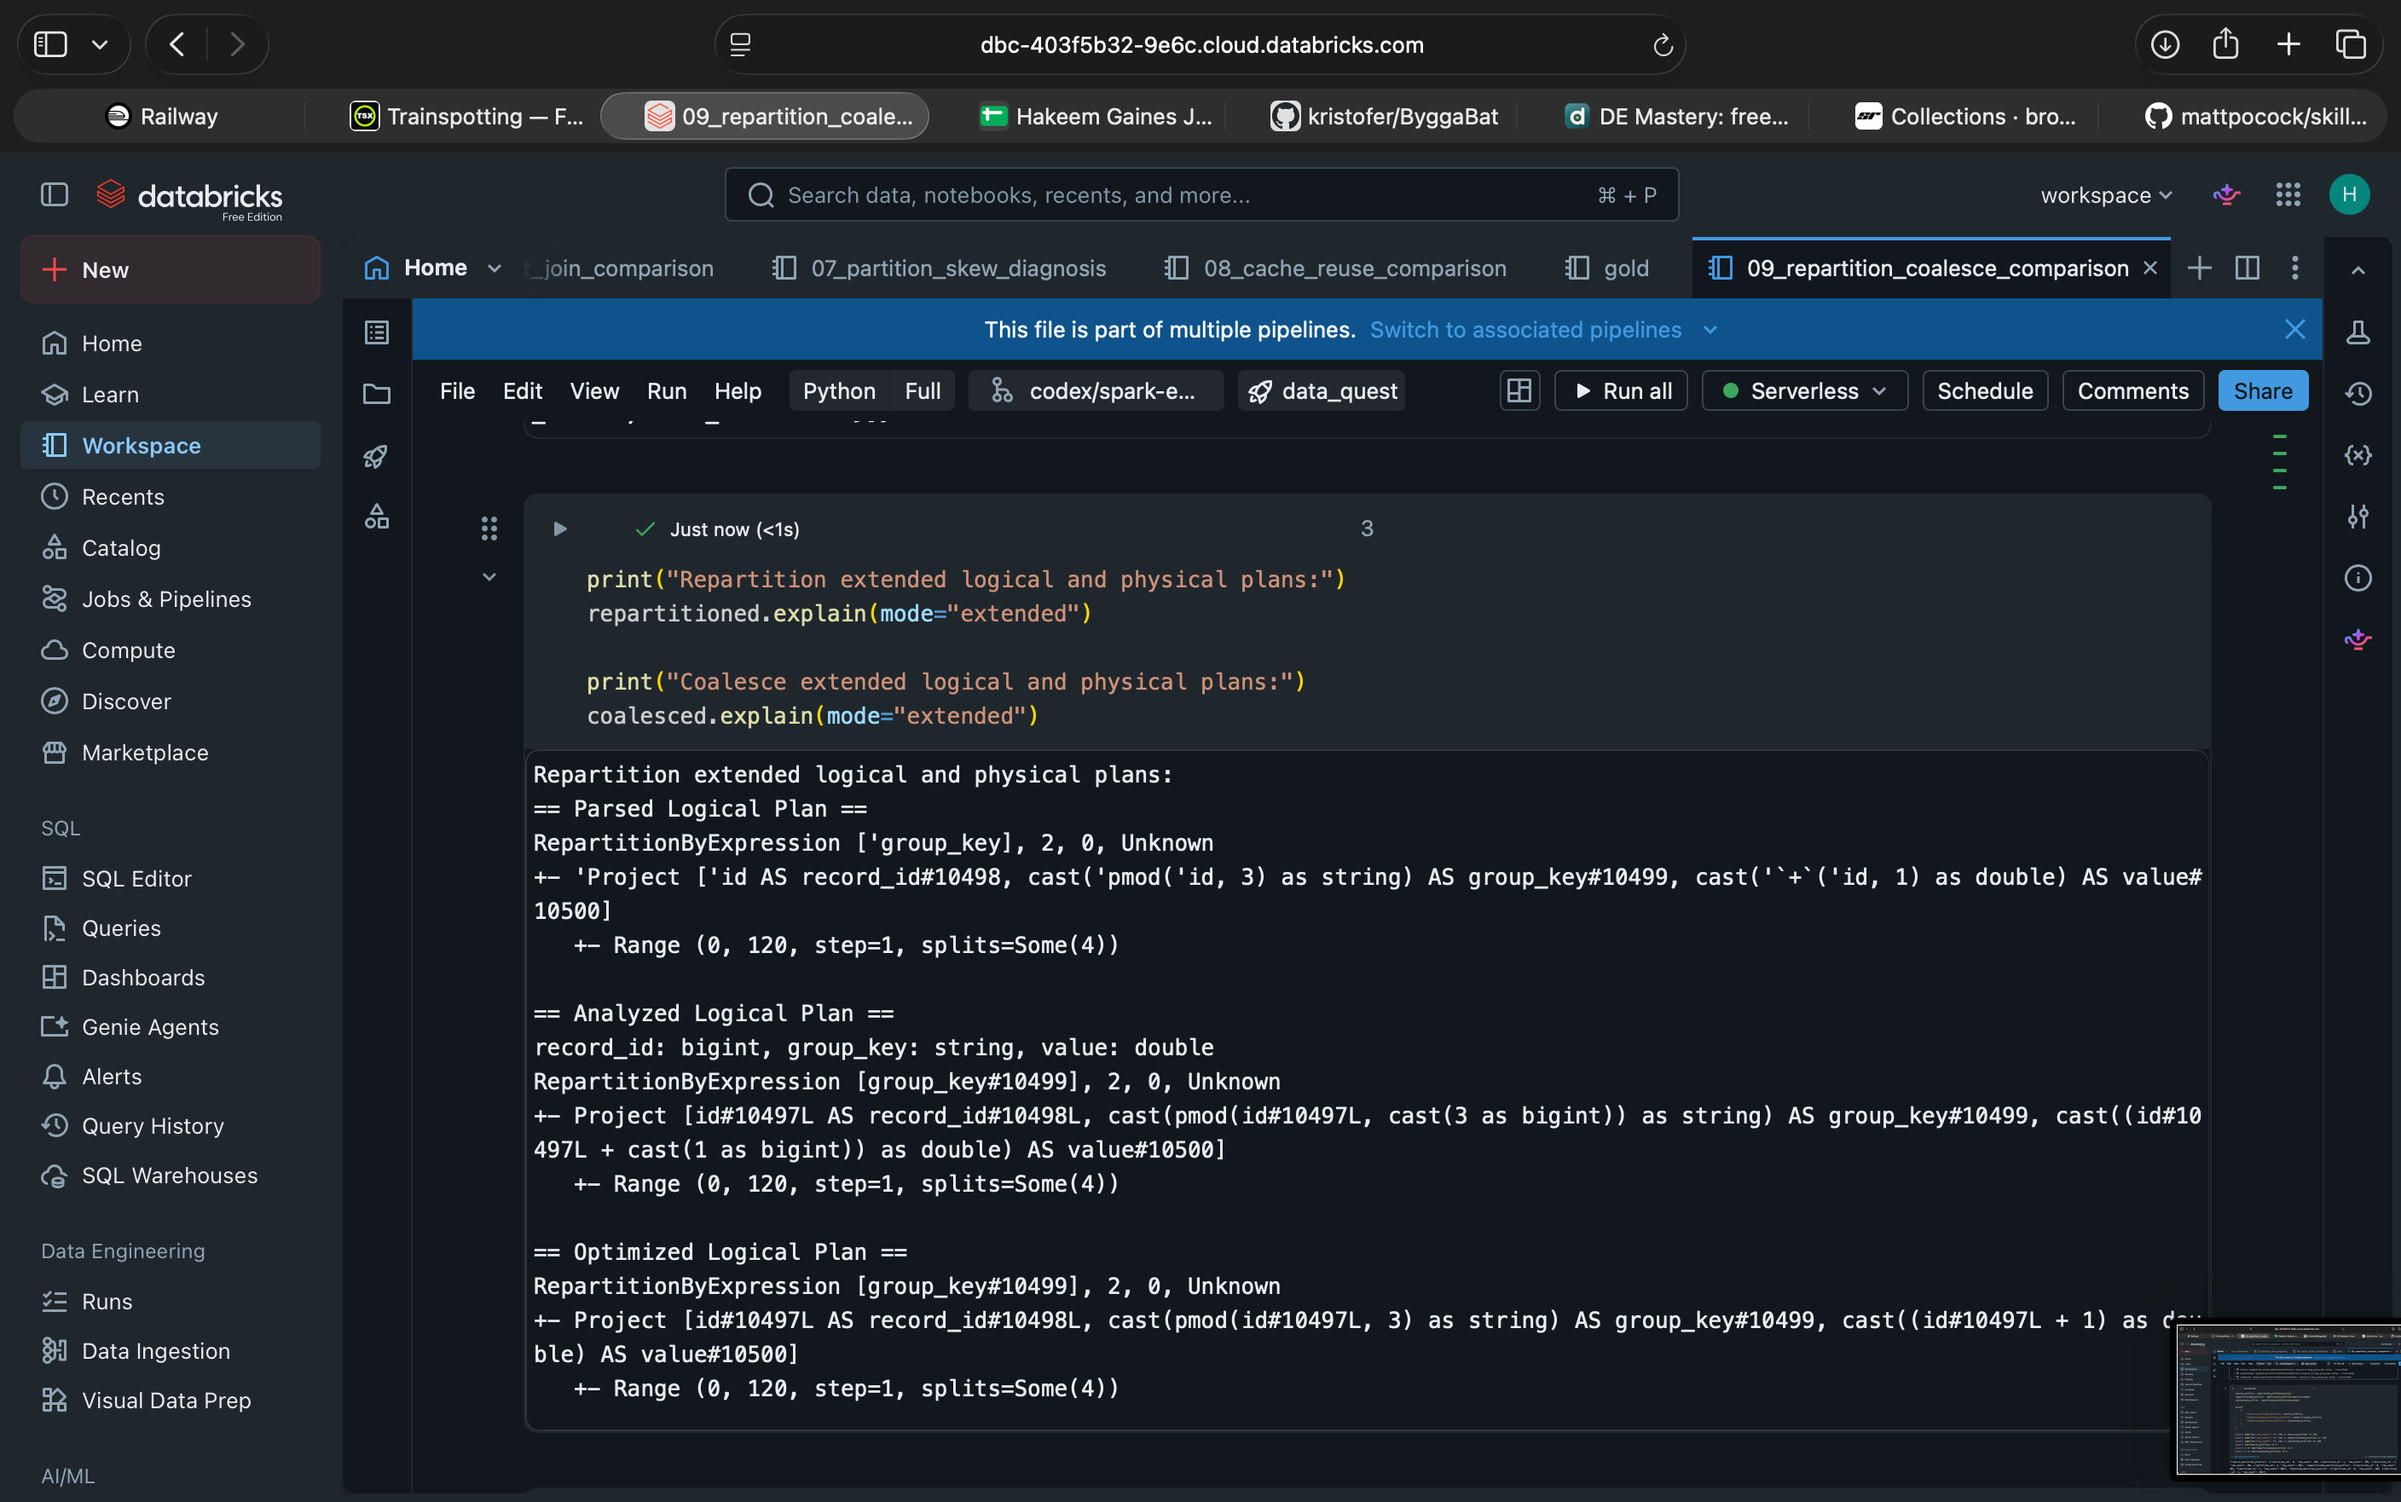
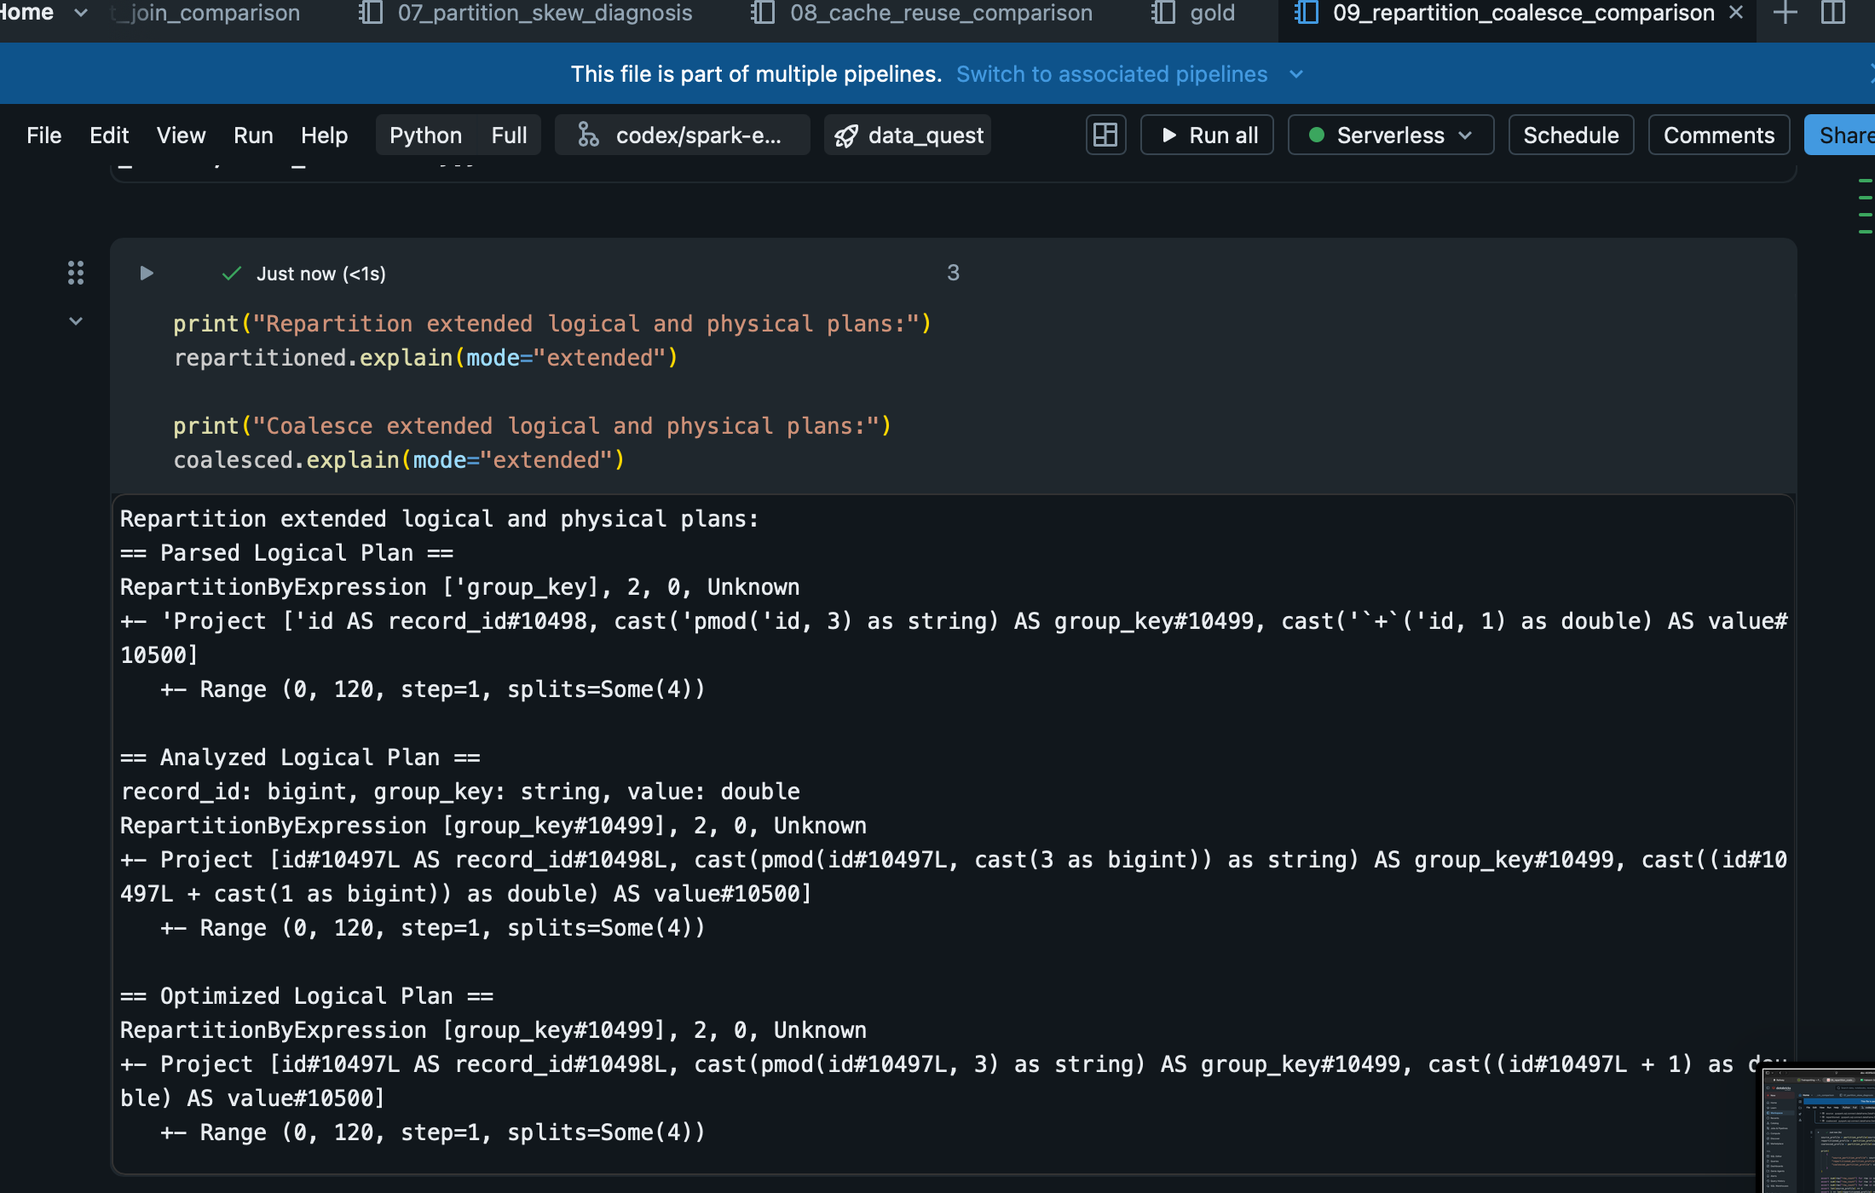
docs: finalize Spark extension evidence

diff --git a/docs/screenshots/README.md b/docs/screenshots/README.md
@@ -35,6 +35,19 @@ SHA-256 digests for the curated files:
[2 lines of base64/hex data omitted]
 
+## Post-submission Spark execution evidence
+
+- `spark_repartition_plan_live.png` — privacy-safe crop of the live
+  Databricks serverless execution for the controlled repartition experiment.
+  - **Evidence:** preserves the parsed, analyzed, optimized, and physical
+    plans, including the `hashpartitioning(group_key, 2)` shuffle exchange.
+  - **Sanitization:** browser chrome, workspace hostname, account imagery,
+    and unrelated navigation were removed; no result pixels were synthesized.
+  - **Boundary:** generated records only. This demonstrates execution shape,
+    not production data access, a performance benchmark, or reproduction of
+    the original failure.
[1 lines of base64/hex data omitted]
+
 ## Detailed implementation evidence
 
 The remaining screenshots preserve the chronological implementation and review

diff --git a/docs/extensions/SPARK_INTERNALS_DATA_QUEST_CORRECTION.md b/docs/extensions/SPARK_INTERNALS_DATA_QUEST_CORRECTION.md
@@ -41,6 +41,13 @@ The repartition plan makes the data movement explicit:
 
 ![Live repartition physical plan](../screenshots/spark_repartition_plan_live.png)
 
+This privacy-safe crop preserves the live Databricks parsed, analyzed,
+optimized, and physical plan while removing browser chrome, the workspace
+hostname, account imagery, and unrelated navigation. It proves that this
+controlled `repartition(2, "group_key")` experiment introduced a physical
+hash-partitioning exchange; it is execution-shape evidence, not a throughput
+benchmark or a reproduction of the original production-scale failure.
+
 The original corrected Bronze path is supported by the successful live validation evidence:
 
 ![Completed Bronze pipeline run](../screenshots/dq11_bronze_run_completed.png)
